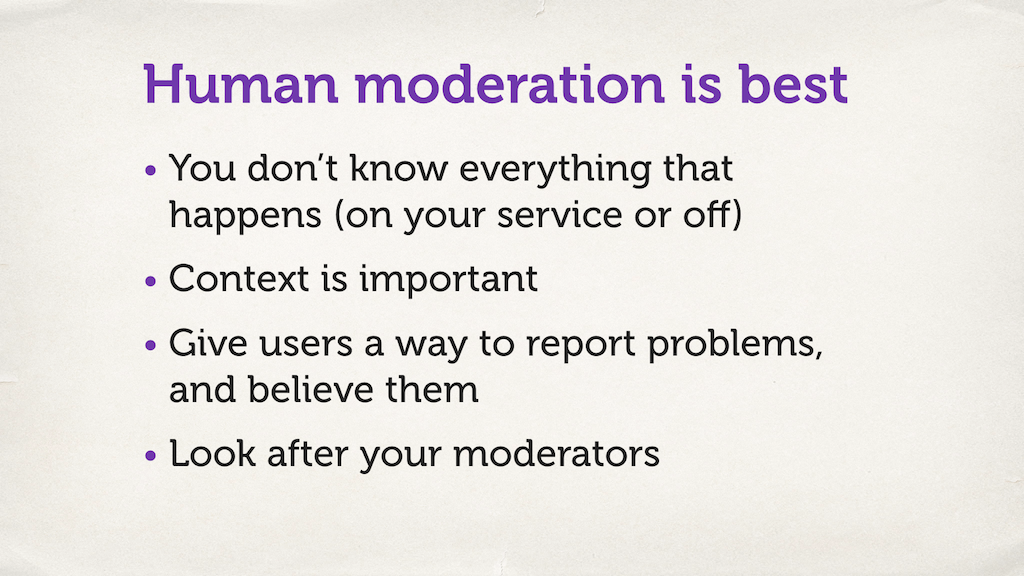
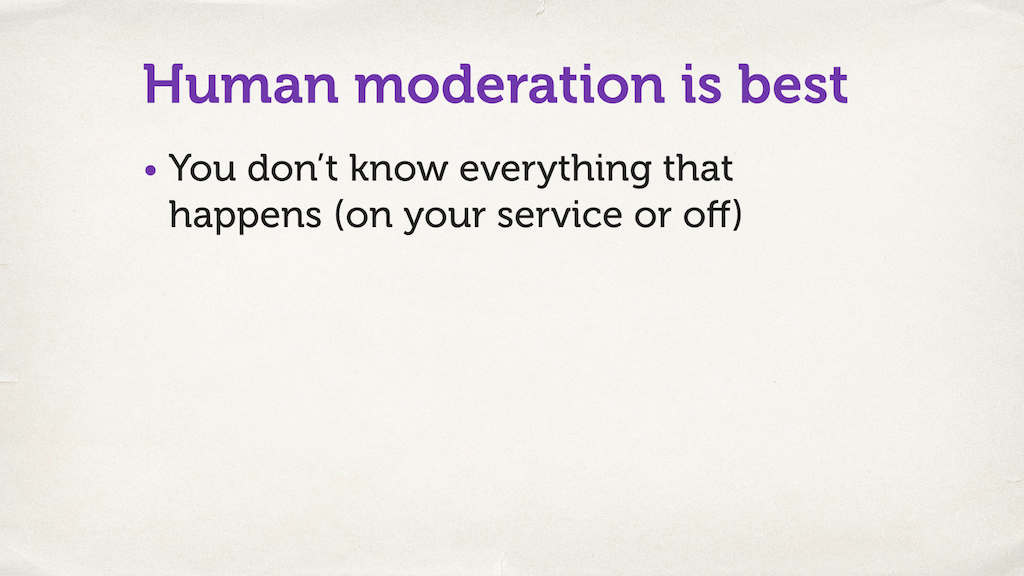
Start tidying up a bunch of the transcripts

diff --git a/src/_drafts/assume-worst-intent.md b/src/_drafts/assume-worst-intent.md
@@ -778,16 +778,16 @@ people like to say
 
 {% slide assume_worst_intent 37 %}
 
-number four rushing
-on don't belong technology to solve
-human problems so you need human
-moderation
+Moving along, number 4: don't rely on technology to solve human problems.
+If humans are being mean to each other, you need human moderation.
+
+
 
 {% slide assume_worst_intent 38 %}
 
-because you don't have
-context you don't know everything
-happens on or off your service
+Because you don't have context -- you don't know everything that happens on (or off) your service.
+
+
 
 {% slide assume_worst_intent 39 %}
 
@@ -809,75 +809,81 @@ that goes with it
 
 {% slide assume_worst_intent 40 %}
 
-so context is important give people a
-way to report problems and believe them
-treat problems in good faith and
+So context is important.
+Give people a way to report problems, believe them, treat their reports in good faith.
+Act upon them.
+
+*[Ed. I ran out of time to mention this, but I'd point to the [Code of Conduct reporting procedure](https://2018.pyconuk.org/code-conduct/) as an example of how to collect reports of harassment.]*
+
+Finally, look after your moderators.
+Today, we've only talked about online harassment, personal harassment (it's only a 25 minute slot!).
+There are lots of other awful things on the Internet: child pornography, sexual abuse, rape imagery, animal harm, torture imagery.
+
+
 
 {% slide assume_worst_intent 41 %}
 
-finally
-look after your moderators and this is
-an important one as well
-we've talked mostly today about I'm
-talking mostly stay back from online
-harassment personal harassment there are
-lots of other awful things on the
-Internet child pornography sexual abuse
-rape imagery to an animal harm torture
-imagery and these are really awful
-horrific things that your moderators
-will have to look at every time somebody
-reports it and says hey maybe this is a
-bad thing that you don't want to be
-allowing allowing on your platform look
-after them make sure let's ported
-canceled hat breaks and so on because
-looking at this stuff really hurts
-people
+These are really awful horrific things that your moderators will have to look at and make a judgement on every time somebody reports it.
+Look after them -- make sure they're supported.
+Appropriate counselling, enough breaks, and so on, because even just looking at this stuff really hurts people.
+
+
 
 {% slide assume_worst_intent 42 %}
 
-and briefly this is a tweet from
-rah who was the LiveJournal trust and
-safety 40% of people burnt out within
-three months of having to go through the
-cesspit of human interaction seeking
-moderation is best
+This is a [tweet from rahaeli](https://twitter.com/rahaeli/status/1036304125418504192), who did a lot of work on the LiveJournal trust and safety team.
+It's part of a larger thread -- 40% of people burnt out within three months of having to go through the cesspit of human interaction.
+
+*[Ed. I don't remember rah's exact role at LiveJournal, but I think they might have been head of the team?  If you care about online safety and building good communities, they're a very good follow [on Twitter](https://twitter.com/rahaeli).]*
+
+
+
+{% slide assume_worst_intent 37 %}
+
+So human moderation is best, but look after your moderators.
+
+
 
 {% slide assume_worst_intent 45 %}
 
-and finally design with abusive personas
-in mind we're used to designing with
-persona with personas where we think
-about trying to help people how can I
-make this flow easier for them make my
-service better for them think in the
-opposite direction imagine somebody
-really awful wants to use my service how
-are they going to use it to cause harm
-and how can I make their life as
-difficult as possible
+Finally, **design with abusive personas in mind**.
+
+We're used to designing with persona where we think about trying to help people.
+How can we make this flow easier?
+How can we make our service better?
+How can we make this process smoother?
+
+Think in the opposite direction: imagine somebody really awful wants to use your service.
+How are they going to use it to cause harm?
+How can you make their life as difficult as possible?
+
+
 
 {% slide assume_worst_intent 46 %}
 
-so there's a summary slide some ways you
-can protect now users make you better
-diversify your team think about your
-name policies robust privacy controls
-human moderation design with abusive
-personas in mind like I said these
-things will not catch everything but
-they will catch a lot and they'll make
-up an and they will make your service
-better
+Here's a summary slide: some ways you can protect yours users better:
+
+1.  Diversify your team
+2.  Think about your name policies
+3.  Robust privacy controls
+4.  Human moderation
+5.  Design with abusive personas in mind
+
+These things won't catch everything, but they will catch a lot, and they will make your service better.
+
+
 
 {% slide assume_worst_intent 47 %}
 
-and I'll leave you with this
-always when you're building something
-ask how could this be used to hurt
-someone how could an abusive ex misuse
-this because if you don't answer those
-questions somebody else will answer them
-for you and your users will get hurt in
-the process thank you all very much
+I'll leave you with this: whenever you're building something, always ask: **How could this be used to hurt someone?**
+**How could an abusive ex misuse this?**
+
+Because if you don't answer those questions, somebody else will answer them for you, and your users will get hurt in the process.
+
+Thank you all very much.
+
+---
+
+##
+
+https://twitter.com/hannahintech
